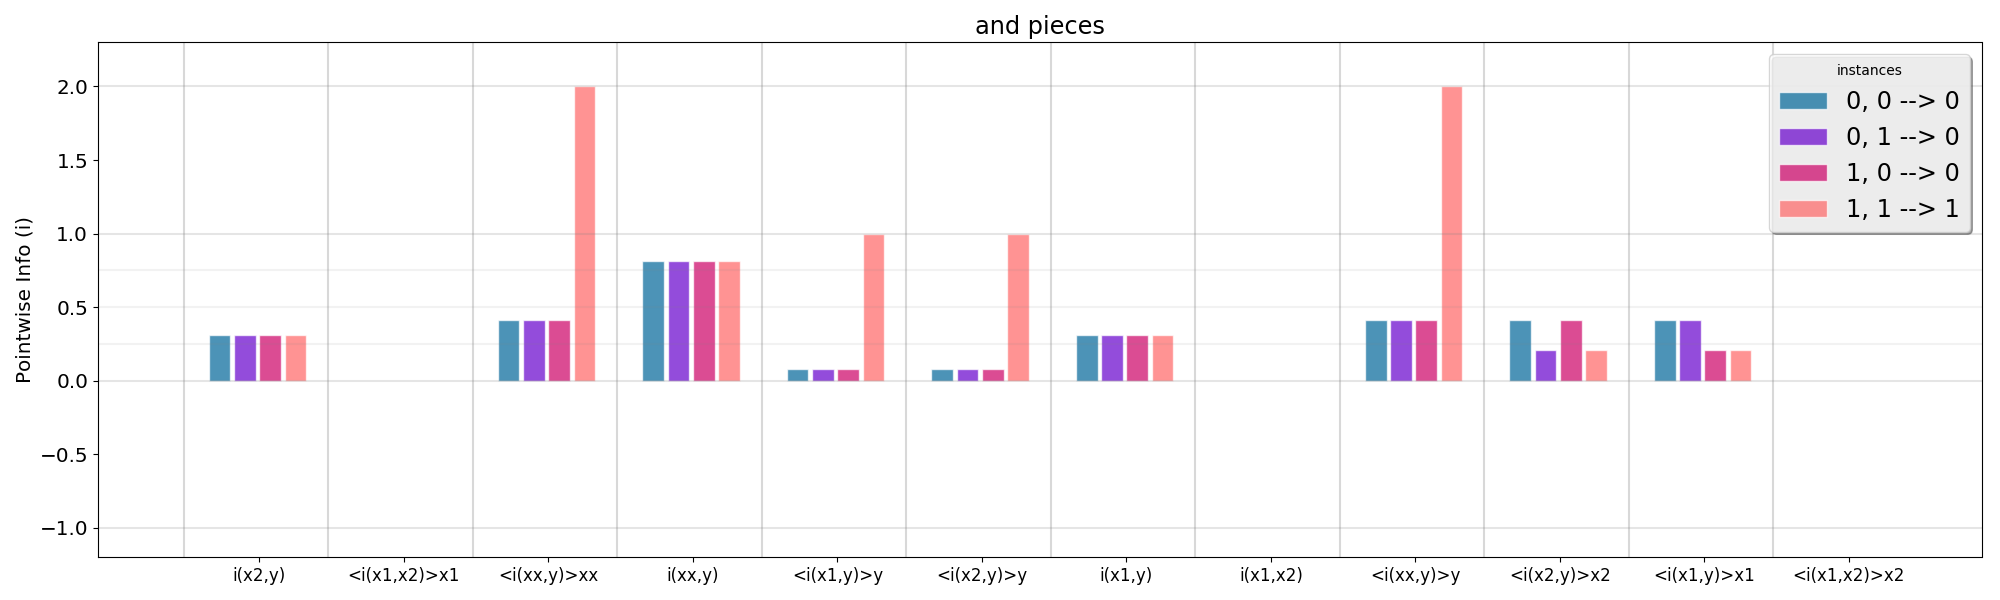
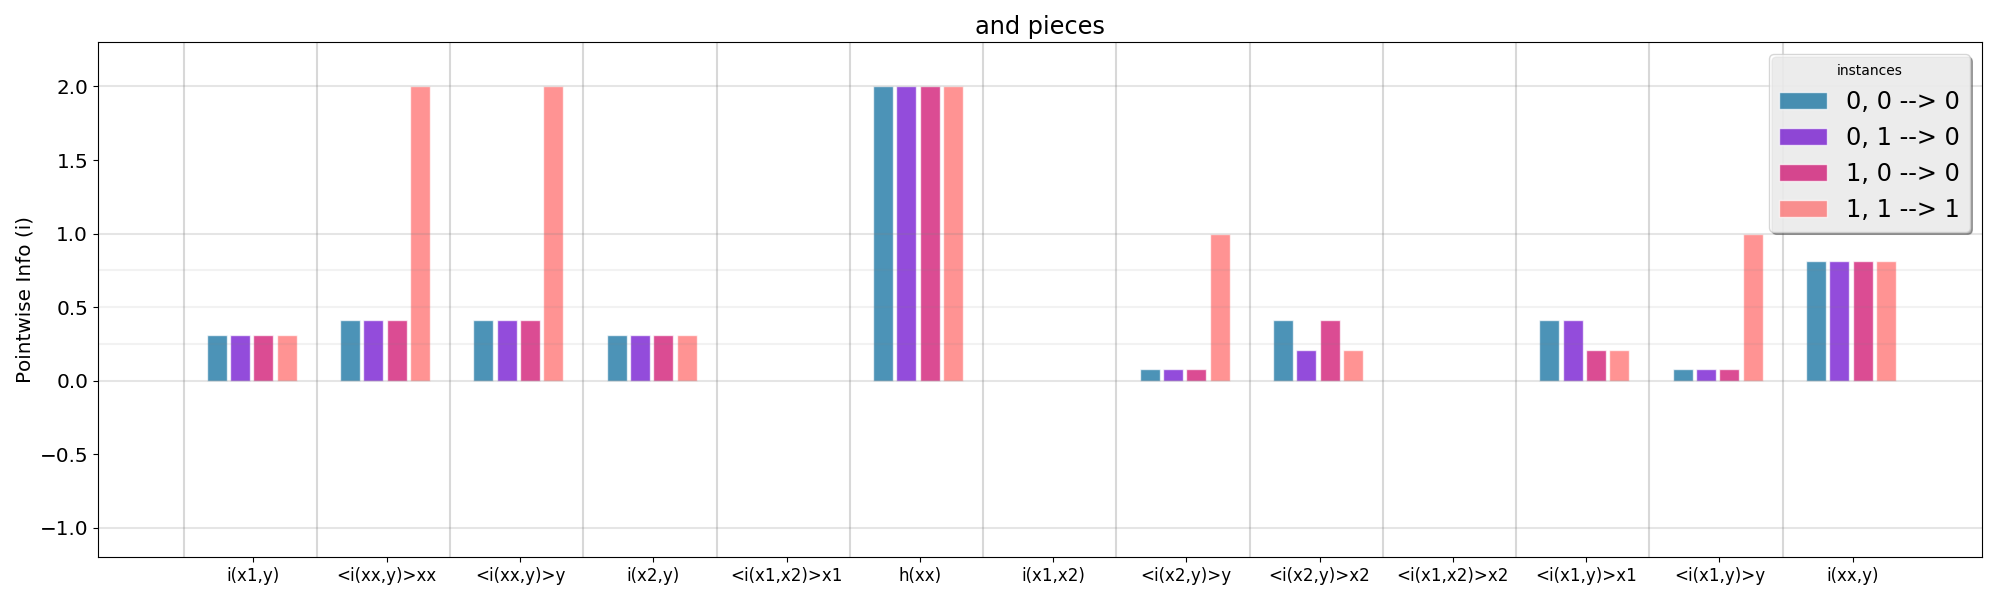
adjusting refactor

diff --git a/src/PID.py b/src/PID.py
@@ -9,7 +9,8 @@ from info_fns import *
 
 
 #TODO:
-# mainly, see plot_pieces.py
+# check axioms on all ex's at once
+# some tweaks to plot_pieces.py
 # later: allow for mutivariate (although always eval'd by pairs)
 
 # eventually want to use with a recursive algo
@@ -34,10 +35,12 @@ def plot_ex(ex, output_path):
     Rs = R_candidates(Pr, Al, num_inst)
     PIDs = PID_decompose(Rs, Pr, print_PID=False)
 
-    axioms.check_axioms(Pr, PIDs, output_path, ex)
+    #axioms.check_axioms(Pr, PIDs, output_path, ex)
 
     plot_pieces.info_bars(Pr, Al, output_path, ex)
     plot_pieces.PID_pie(PIDs, output_path, ex)
+
+    return Pr, PIDs
 
 
 ####################################### PARTIAL AVGS #################################################
@@ -53,13 +56,13 @@ def R_candidates(Pr, Al, num_inst):
 
     # TODO: poss frag into smaller fns
 
-    xkeys = ['<iii/i>x', 'I<ii/i>x', '<ii/i>x']
-    ykeys = ['<iii/i>y', 'I<ii/i>y', '<ii/i>y']
-    wkeys = ['III/I', 'II/I', 'sqrt(III/I)', 'sqrt(II/I)'] #w for whole
+    xkeys = ['sqrt I<ii/i>x', '<ii/i>x', 'I<ii/i>x/H','<ii/h>x']
+    ykeys = ['sqrt I<ii/i>y', '<ii/i>y', 'I<ii/i>y/H','<ii/h>y']
+    wkeys = ['II/I','sqrt(III/I)','III/HI', 'II/H'] #w for whole
 
     cand_keys = xkeys + ykeys + wkeys
 
-    defunct_keys = ['<ii1/i>x','<ii1/i>y','<ii2/i>x','<ii2/i>y','<i1/i>x','<i1/i>y','<i2/i>x','<i2/i>y'] #eventually need to clean out some
+    defunct_keys = ['III/I','sqrt(II/I)', 'II/I', '<iii/i>x','<iii/i>y',  '<ii1/i>x','<ii1/i>y','<ii2/i>x','<ii2/i>y','<i1/i>x','<i1/i>y','<i2/i>x','<i2/i>y'] #eventually need to clean out some
 
     r = [{k:0 for k in cand_keys} for i in range(num_inst)]
 
@@ -73,7 +76,8 @@ def R_candidates(Pr, Al, num_inst):
                               / partial_info(Pr,Al,'y','x1,x2',i)
 
         r[i]['<iii/i>x'] = r[i]['<ii/i>x'] * info(Pr[i],'x1','x2')
-        r[i]['I<ii/i>x'] = r[i]['<ii/i>x']
+        r[i]['sqrt I<ii/i>x'] = r[i]['<ii/i>x']
+        r[i]['<ii/h>x'] = partial_info(Pr,Al,'y','x1',i) * partial_info(Pr,Al,'y','x2',i) / h(Pr[i], 'x1,x2')
 
         # PARTIAL Y CANDIDATES
         if partial_info(Pr,Al,'x1,x2','y',i) == 0:
@@ -83,7 +87,9 @@ def R_candidates(Pr, Al, num_inst):
                               / partial_info(Pr,Al,'x1,x2','y',i)
 
         r[i]['<iii/i>y'] = r[i]['<ii/i>y'] * info(Pr[i], 'x1', 'x2')
-        r[i]['I<ii/i>y'] = r[i]['<ii/i>y']
+        r[i]['sqrt I<ii/i>y'] = r[i]['<ii/i>y']
+        r[i]['<ii/h>y'] = partial_info(Pr,Al,'x1','y',i) * partial_info(Pr,Al,'x2','y',i) / h(Pr[i], 'x1,x2')
+
 
 
     # AVERAGE pointwise r -> R
@@ -107,10 +113,23 @@ def R_candidates(Pr, Al, num_inst):
         R['sqrt(III/I)'] = pow(R['III/I'], 1 / 2)
         R['sqrt(II/I)'] = pow(R['II/I'], 1 / 2)
 
+        R['III/HI'] = R['III/I']/ H(Pr,'x1,x2')
+
+        R['II/H'] = Info(Pr, 'x1', 'y') * Info(Pr, 'x2', 'y') / H(Pr, 'x1,x2')
+
 
     # MIXED PTWISE AND WHOLE CANDIDATES
-    R['I<ii/i>y'] = pow(R['I<ii/i>y'] * Info(Pr,'x1','x2'), 1 / 2)
-    R['I<ii/i>x'] = pow(R['I<ii/i>y'] * Info(Pr,'x1','x2'), 1 / 2)
+    R['sqrt I<ii/i>y'] = pow(R['<ii/i>y'] * Info(Pr,'x1','x2'), 1 / 2)
+    R['sqrt I<ii/i>x'] = pow(R['<ii/i>x'] * Info(Pr,'x1','x2'), 1 / 2)
+    R['I<ii/i>x/H'] = R['<ii/i>x'] * Info(Pr,'x1','x2') / H(Pr,'x1,x2')
+    R['I<ii/i>y/H'] = R['<ii/i>y'] * Info(Pr,'x1','x2') / H(Pr,'x1,x2')
+
+    # only want to plot candidates
+    dels = []
+    for k in R.keys():
+        if k not in cand_keys:
+            dels += [k]
+    for k in dels: del R[k]
 
     return R
 
@@ -135,6 +154,10 @@ def PID_decompose(R, Pr, print_PID=True):
             for p in ['R','U1','U2','S']:
                 print(p + ' = ' + str(PID[k][p]))
 
+        for p in ['R', 'U1', 'U2', 'S']:
+            PID[k][p] = round(PID[k][p],8) #rounding
+
+
     return PID
 
 
@@ -147,12 +170,17 @@ if __name__ == "__main__":
     output_path= 'C:/Users/Crbn/Documents/Code/Info/plots/'
 
     if sys.argv[1] == 'all':
-        exs = ['xor','id', 'id2','id3','and','breaker','rdnerr', 'an', 'pwunq', 'xor2','pw_v2', 'pw_v3']
+        exs = ['xor','id', 'id2','id3','and','breaker','rdnerr', 'an', 'pwunq', 'xor2','pw_v2', 'pw_v3','xx1','xx2']
+        PIDS,PR = {}, {}
         for ex in exs:
             print('\n...decomposing ' + str(ex))
-            plot_ex(ex, output_path)
+            Pr, PIDs = plot_ex(ex, output_path)
+            PIDS[ex] = PIDs
+            PR[ex] = Pr
+        axioms.check_axioms_many(PR, PIDS, output_path)
 
     else:
-        plot_ex(sys.argv[1], output_path)
+        Pr, PIDs = plot_ex(sys.argv[1], output_path)
+        axioms.check_axioms(Pr, PIDs, output_path, sys.argv[1])
 
     print("\nDone.\n")

diff --git a/src/plot_pieces.py b/src/plot_pieces.py
@@ -2,49 +2,83 @@ import os, numpy as np, math
 from matplotlib import pyplot as plt
 from matplotlib import rc
 from matplotlib.gridspec import GridSpec
+import matplotlib.patches as mpatches
 
 from info_fns import *
 
+
+pie_colors = ['#66ff33','#cc66ff','#ff0066','#00ffff']
+bar_colors = ['#006699','#6600cc','#cc0066','#ff6666']
+PID_pieces = ['R','U1','U2','S']
+
 # TODO
-# info_bars text is too big/ andor img too small (jP fixed)
-# pies add titles, fix siden (doesn't need to be equal); make nicer
-# axioms should test all ex's in a set...
+# better colors w/o shadow for pies
+# larger info title
+# pies fix siden (doesn't need to be equal); make nicer
+
+# add back vertical partitions to bar plots
 
 def PID_pie(PIDs, output_path, title):
     #ks = PIDs.keys()
     siden = int(math.ceil(math.sqrt(len(PIDs))))
-    fig, axs = plt.subplots(siden, siden)
+    fig, axs = plt.subplots(siden, siden,figsize=(10,10))
 
     i=0
     for k in PIDs.keys():
         one_pie(PIDs[k], k, axs, math.floor(i/siden), i%siden)
         i+=1
 
-    # TODO: fix, curr only blanks one
     for j in range(i,int(math.pow(siden,2))):
-        axs[math.floor(i/siden), i%siden].axis('off')
+        axs[math.floor(j/siden), j%siden].axis('off')
 
-
+    fig.suptitle(title, size=20)
+    pie_legend()
     plt.savefig(output_path + "/pid_pies_" + str(title) + ".png")
 
 
 def one_pie(pid, key, axs, x, y):
-    labels = ['R','U1','U2','S']
-    fracs = [pid['R'], pid['U1'], pid['U2'], pid['S']]
+    tot = pid['R'] + pid['U1'] + pid['U2'] + pid['S']
+    fracs = [pid['R']/tot, pid['U1']/tot, pid['U2']/tot, pid['S']/tot]
+    colors, dels = [], []
+    for f in range(len(fracs)):
+        if fracs[f] == 0: dels += [f]
+        else: colors += [pie_colors[f]]
+    for f in dels:
+        #print(f, fracs, dels)
+        del fracs[f]
+        for i in range(len(dels)): #need to shift remaining dels since list shrinks
+            dels[i] -= 1
 
-    axs[x, y].pie(fracs, labels=labels)
+    wedges, texts, autotxt = axs[x, y].pie(fracs, autopct='%1.1f%%', shadow=True, startangle=90, colors=colors)
+
+    for a in autotxt:
+        a.set_fontsize(6)
+        a.set_fontweight('semibold')
+    for w in wedges:
+        w.set_alpha(.4)
+
+    axs[x, y].axis('equal')
     axs[x, y].set_title(key)
 
+
+def pie_legend():
+    handles = []
+    for c in range(len(pie_colors)):
+        patch = mpatches.Patch(color=pie_colors[c], label=PID_pieces[c], alpha=.8)
+        handles += [patch]
+    plt.legend(handles=handles)
 
 
 def build_info_bars(Pr, Al):
     # shows partial info decomp by instances
     num_inst = len(Al['y'])
-    keys = ['i(x1,y)','i(x2,y)','i(xx,y)','i(x1,x2)']
+    ikeys = ['i(x1,y)','i(x2,y)','i(xx,y)','i(x1,x2)']
+    hkeys = ['h(xx)']
+    keys = ikeys + hkeys
     I = [{k:0 for k in keys} for i in range(num_inst)]
     # so I[inst][key]
     for i in range(num_inst):
-        for k in keys:
+        for k in ikeys:
             rm_chars = ['(',')','i']
             al = k
             for r in rm_chars: al = al.replace(r,'')
@@ -56,6 +90,13 @@ def build_info_bars(Pr, Al):
             I[i]['<' + k + '>' + al[0]] = partial_info(Pr,Al,al[1],a,i)
             I[i]['<' + k + '>' + al[1]] = partial_info(Pr,Al,a,al[1],i)
 
+        for k in hkeys:
+            rm_chars = ['(',')','h']
+            al = k
+            for r in rm_chars: al = al.replace(r,'')
+            if al == 'xx': al = 'x1,x2'
+            I[i][k] = H(Pr,al)
+
     return I
 
 def info_bars(Pr, Al, output_path, title):
@@ -64,7 +105,7 @@ def info_bars(Pr, Al, output_path, title):
     if not os.path.exists(output_path):
         os.makedirs(output_path)
 
-    colors = ['#006699','#6600cc','#cc0066','#ff6666']
+    colors = bar_colors
     rc('font')
 
     bars, keyz = [], []

diff --git a/src/axioms.py b/src/axioms.py
@@ -2,9 +2,51 @@ from info_fns import *
 
 # TODO later: multivariate bounds axioms
 
+def check_axioms_many(PR, PIDS, output_path):
+    # PIDS = {} of exs, each with {} of candidates, each with RUUS pieces
+    # PR = {} of exs
+
+
+    axiom_titles = ['LP','M','XX']
+
+    # init
+    for p in PIDS.keys():
+        axioms = {k: {} for k in PIDS[p].keys()}
+        for k in PIDS[p].keys():
+            for t in axiom_titles:
+                axioms[k][t] = True
+        break
+
+    # for all examples
+    for p in PIDS.keys():
+
+        # for all candidates
+        for k in PIDS[p].keys():
+
+            # for all axioms
+            for t in axiom_titles:
+                if t == 'LP': a = LP(PIDS[p][k])
+                elif t == 'M': a = M(PR[p], PIDS[p][k])
+                elif t == 'XX': a = XX(PR[p], PIDS[p][k])
+                else: assert(False)
+
+                # if breaks axiom, add name of example
+                if a == False:
+                    if axioms[k][t] == True:
+                        axioms[k][t] = p
+                    else: axioms[k][t] = axioms[k][t] + ' ' + p
+
+
+    write_axioms(axioms, output_path + 'axioms_ALL.csv')
+
+
+
 def check_axioms(Pr, PIDs, output_path, title):
     # takes a dict of PID dicts, where PIDs.keys() = 'poss','candidates' ...
     # writes a table of T/F for each axiom for each candidate
+
+    # axioms should test all ex's in a set...
+
     axioms = {k:{} for k in PIDs.keys()}
     for k in PIDs.keys():
         axioms[k]['LP'] = LP(PIDs[k])
@@ -34,20 +76,24 @@ def write_axioms(axioms, file):
 
 
 def LP(PID):
+    # local positivity
     LP = True
     for p in PID.keys():
         if PID[p] < 0: LP = False
     return LP
 
 def M(Pr, PID):
-    # curr just for R, but need to check
-    if PID['R'] <= Info(Pr, 'x1', 'y') and PID['R'] <= Info(Pr, 'x2', 'y'):
+    # monotonicity
+    # automatically holds for U and S, if LP holds
+    if PID['R'] <= Info(Pr, 'x1', 'y') +.00001 and PID['R'] <= Info(Pr, 'x2', 'y') + .00001:
         M=True
     else: M=False
     return M
 
 def XX(Pr, PID):
+    # dependence and proportionality to i(x,x)
     # strong version
-    if PID['R'] <= Info(Pr, 'x1', 'x2'): XX=True
+    if PID['R'] <= Info(Pr, 'x1', 'x2') + .00001 : XX=True
     else: XX=False
+
     return XX

diff --git a/src/examples.py b/src/examples.py
@@ -26,6 +26,13 @@ def get_io(name):
         input, output = id_v2()
     elif name == 'id3':
         input, output = id_v3()
+    elif name == 'xx1':
+        input = [[1,1,0,0],[1,1,0,0]]
+        output = [1,1,1,0]
+    elif name == 'xx2':
+        input = [[1,1,1,0],[1,1,1,0]]
+        output = [1,1,0,0]
+
     else:
         assert (False)  # unknown sys.argv[1]
 
